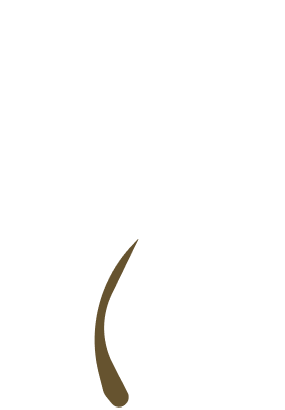
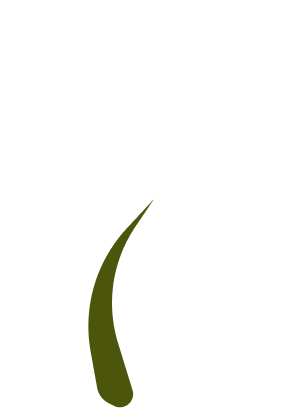
fixed letter guessing, image loading, and added 1 stage image

Changed region(s): [[0.3088, 0.4976, 0.5333, 0.9951]]

diff --git a/script.js b/script.js
@@ -90,7 +90,7 @@ function guessLetter() {
         guessedLetters.push(guessedLetter)
     }
 
-    if (selectedWord.includes(guessedLetters)) {
+    if (selectedWord.includes(guessedLetter)) {
         correctGuess(guessedLetter)
     } else {
         wrongGuess(guessedLetter)
@@ -107,7 +107,7 @@ function wrongGuess(guessedLetter) {
     //add guessed letter to wrong  HTML div
     document.getElementById('wrongLetters').textContent += `${guessedLetter}`
 
-    document.getElementById('shamrock').arc = `img/shamrock${6 - wrongGuesses}.png`
+    document.getElementById('shamrock').src = `imgs/shamrock${6 - wrongGuesses}.png`
 
     const maxMistakes = 6
     //change back to see ig % of wrong guesses is - max mistakes
@@ -138,8 +138,8 @@ function correctGuess(guessedLetter) {
 function endGame(won) {
     if (won === true) {
         setTimeout(() => alert("yay u won"), 100)
-    } else {
-
+    } else if (won === false) {
+        setTimeout(() => alert("try again ya bum"), 100)
     }
 }
 

diff --git a/index.html b/index.html
@@ -49,11 +49,11 @@
             <p id="wrongLetters" class="fw-bold text-danger"> Wrong Guesses: </p>
 
             <!-- Shamrock Health Image -->
-            <img id="shamrock" src="img/shamrock6.png" alt="Shamrock Health" class="shamrock-img">
+            <img id="shamrock" src="imgs/shamrock6.png" alt="Shamrock Health" class="shamrock-img">
 
             <!-- Restart Button -->
             <div class="mt-4">
-                <button id="restartBtn" class="btn btn-danger" onclick="restartgame()">Restart Game</button>
+                <button id="restartBtn" class="btn btn-danger" onclick="restartGame()">Restart Game</button>
             </div>
         </div>
     </main>

diff --git a/style.css b/style.css
@@ -10,6 +10,7 @@ body {
 }
 
 #gameArea,
+#gameArea2,
 #extras,
 #difficultySelection {
     background-color: #dbffe2;
